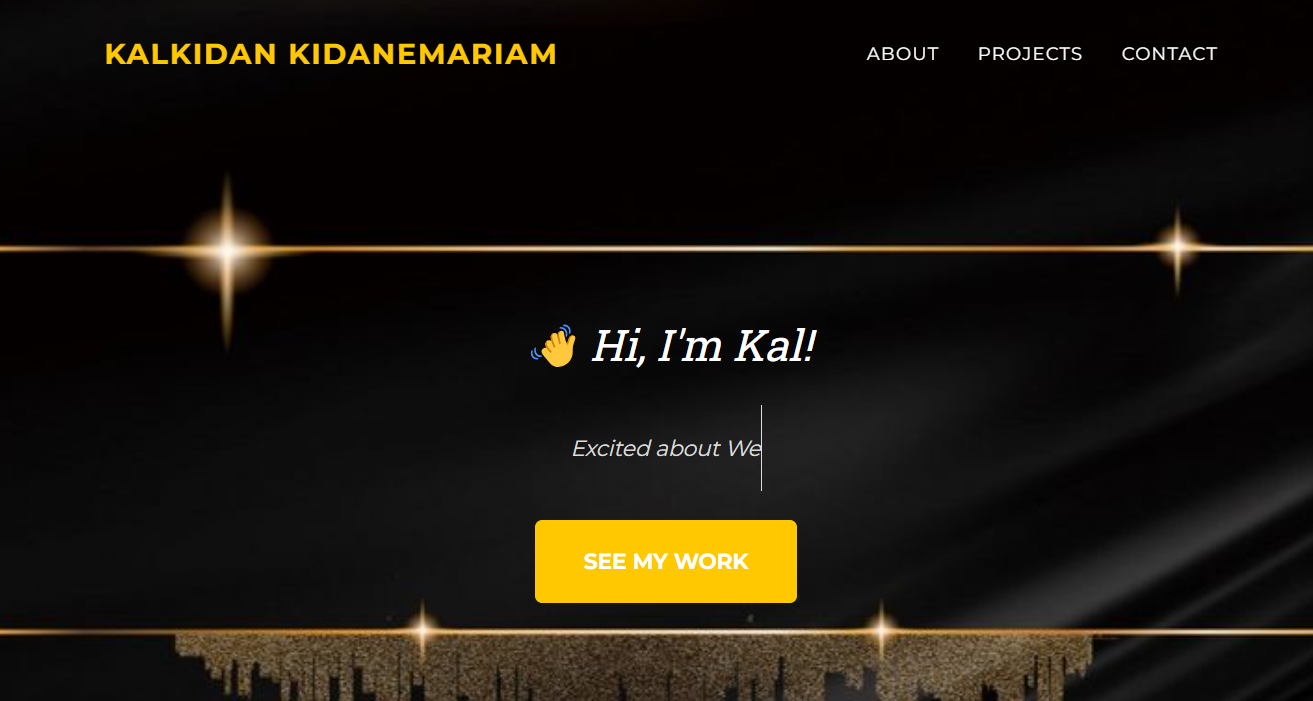
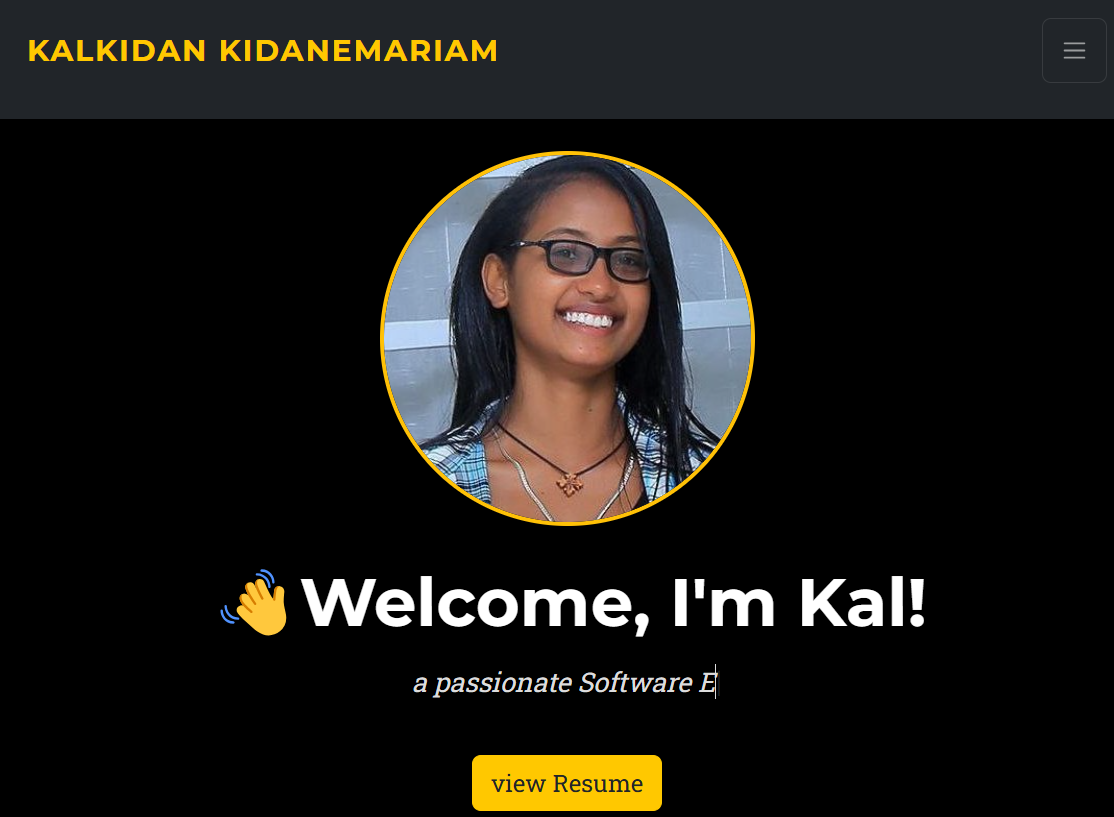
i add something

diff --git a/portfolio/index.html b/portfolio/index.html
@@ -48,9 +48,9 @@
   <section id="page-top" class="min-vh-100 d-flex align-items-center bg-black">
     <div class="container text-center fade-in">
       <img src="./assets/img/images/PROFILE.jpg" alt="Kalkidan's Photo" class="rounded-circle mb-4 shadow profile-img" width="300" height="300">
-      <h1 class="display-4 fw-bold text-white">👋 Hi, I'm Kal!</h1>
+      <h1 class="display-4 fw-bold text-white">👋Welcome, I'm Kal!</h1>
       <p class="lead"><span id="typed-text"></span><span class="cursor">|</span></p>
-      <a href="#projects" class="btn btn-warning text-dark mt-3 smooth-scroll">See My Work</a>
+      <a href="#projects" class="btn btn-warning text-dark mt-3 smooth-scroll">view Resume</a>
     </div>
   </section>
   
@@ -155,7 +155,7 @@
 
 <!-- Portfolio Section -->
 <section class="page-section bg-light" id="portfolio">
-    <div class="container" id="PROJECT">
+ <div class="container" id="PROJECT">
         <div class="text-center">
             <h2 class="section-heading text-uppercase">My Projects</h2>
             <h3 class="section-subheading text-muted">A selection of my recent work across different domains.</h3>
@@ -353,22 +353,6 @@
                                 <div class="portfolio-hover">
                                   <div class="portfolio-hover-content"><i class="fas fa-plus fa-3x"></i></div>
                                 </div>
-                                <img class="img-fluid" src="./assets/project/c6.png" alt="Project 1" />
-                              </a>
-                              <div class="portfolio-caption">
-                                <!-- <div class="portfolio-caption-heading">Personal portfolio</div> -->
-                                <div class="portfolio-caption-subheading text-muted text-center">
-                                    <!-- <a href="https://github.com/kalkidan1919/portfolio.git" class="btn btn-warning btn-sm mt-2">View Portfolio</a> -->
-                                </div>
-                              </div>
-                            </div>
-                          </div>
-                          <div class="col-lg-4 col-sm-6 mb-4">
-                            <div class="portfolio-item">
-                              <a class="portfolio-link" data-bs-toggle="modal" href="#portfolioModal1">
-                                <div class="portfolio-hover">
-                                  <div class="portfolio-hover-content"><i class="fas fa-plus fa-3x"></i></div>
-                                </div>
                                 <img class="img-fluid" src="./assets/project/c7.png" alt="Project 1" />
                               </a>
                               <div class="portfolio-caption">
@@ -379,45 +363,7 @@
                               </div>
                             </div>
                           </div>
-                          <div class="col-lg-4 col-sm-6 mb-4">
-                            <div class="portfolio-item">
-                              <a class="portfolio-link" data-bs-toggle="modal" href="#portfolioModal1">
-                                <div class="portfolio-hover">
-                                  <div class="portfolio-hover-content"><i class="fas fa-plus fa-3x"></i></div>
-                                </div>
-                                <img class="img-fluid" src="./assets/project/c8.png" alt="Project 1" />
-                              </a>
-                              <div class="portfolio-caption">
-                                <!-- <div class="portfolio-caption-heading">Personal portfolio</div> -->
-                                <div class="portfolio-caption-subheading text-muted text-center">
-                                    <!-- <a href="https://github.com/kalkidan1919/portfolio.git" class="btn btn-warning btn-sm mt-2">View Portfolio</a> -->
-                                </div>
-                              </div>
-                            </div>
-                          </div>
-                          
-                          
-                          
-            
-                        <div class="col-lg-4 col-sm-6 mb-4">
-                            <div class="portfolio-item">
-                                <a class="portfolio-link" data-bs-toggle="modal" href="#portfolioModal2">
-                                    <div class="portfolio-hover">
-                                        <div class="portfolio-hover-content"><i class="fas fa-plus fa-3x"></i></div>
-                                    </div>
-                                    <img class="img-fluid" src="./assets/project/c9.png" alt="Project 2" />
-                                </a>
-                                <div class="portfolio-caption">
-                                    <!-- <div class="portfolio-caption-heading">Puppy lovers page</div> -->
-                                    <!-- <a href="https://github.com/kalkidan1919/puppy_lovers_page.git" class="btn btn-warning btn-sm mt-2">View here</a> -->
-                                </div>
-                            </div>
-                        </div>
-            
-            
-            
-
-
+                         
  <footer class="footer py-4 bg-light text-dark" id="CONTACT">
     <div class="container" id="FOOTER">
         <div class="row align-items-center">
@@ -428,6 +374,8 @@
 
             <div class="col-lg-4 text-center" id="btn-social">
                 <div class="portfolio-caption-heading mb-3" id="contact">contact me</div>
+                <p class="text-muted" id="CONTACTP">I’m excited to collaborate, learn, and build. Feel free to reach out through any of my social links below!</p>
+
                 <a class="btn btn-dark btn-social mx-2" href="https://t.me/TechNova19" target="_blank" aria-label="Telegram">
                     <i class="fab fa-telegram-plane"></i>
                 </a>

diff --git a/portfolio/css/styles.css b/portfolio/css/styles.css
@@ -99,7 +99,7 @@ body {
   line-height: var(--bs-body-line-height);
   color: var(--bs-body-color);
   text-align: var(--bs-body-text-align);
-  background-color: var(--bs-body-bg);
+  /* background-color: var(--bs-body-bg); */
   -webkit-text-size-adjust: 100%;
   -webkit-tap-highlight-color: rgba(0, 0, 0, 0);
 }
@@ -115,7 +115,61 @@ body {
   border-radius: 50%;
 }
 #ABOUT{
-  background-color: rgb(224, 224, 235);
+  background-color: rgba(128,128,128);
+}
+#ABOUT .text-muted {
+  color: white !important;
+}
+#portfolio{
+  background-color: 105,105,105;
+}
+
+/* Footer black background and white text */
+.footer {
+  background-color: #000000!important; /* black */
+  color: white;
+  padding: 60px 0;
+}
+#CONTACTP{
+  color:yellow;
+}
+
+/* "Contact Me" styling */
+#contact {
+  color: black;
+  font-size: 20px;
+  font-weight: 600;
+  text-transform: uppercase;
+  margin-bottom: 20px;
+}
+
+/* Social button style */
+#btn-social a.btn-social {
+  background-color: transparent;
+  border: 2px solid #ffc107;
+  color: #ffc107; /* yellow icons */
+  border-radius: 50%;
+  width: 50px;
+  height: 50px;
+  line-height: 46px;
+  display: inline-flex;
+  justify-content: center;
+  align-items: center;
+  font-size: 20px;
+  transition: all 0.3s ease;
+  margin: 0 8px;
+}
+
+/* Hover effect */
+#btn-social a.btn-social:hover {
+  background-color: #ffc107;
+  color: #000000;
+  transform: translateY(-5px);
+}
+
+/* Padding above the centered content */
+#btn-social {
+  padding-top: 40px;
 }
 
 .masthead-subheading {

diff --git a/portfolio/js/scripts.js b/portfolio/js/scripts.js
@@ -96,4 +96,3 @@ window.addEventListener("DOMContentLoaded", () => {
 
   setTimeout(typeEffect, 1000); // Delay start for smooth entrance
 });
-  
